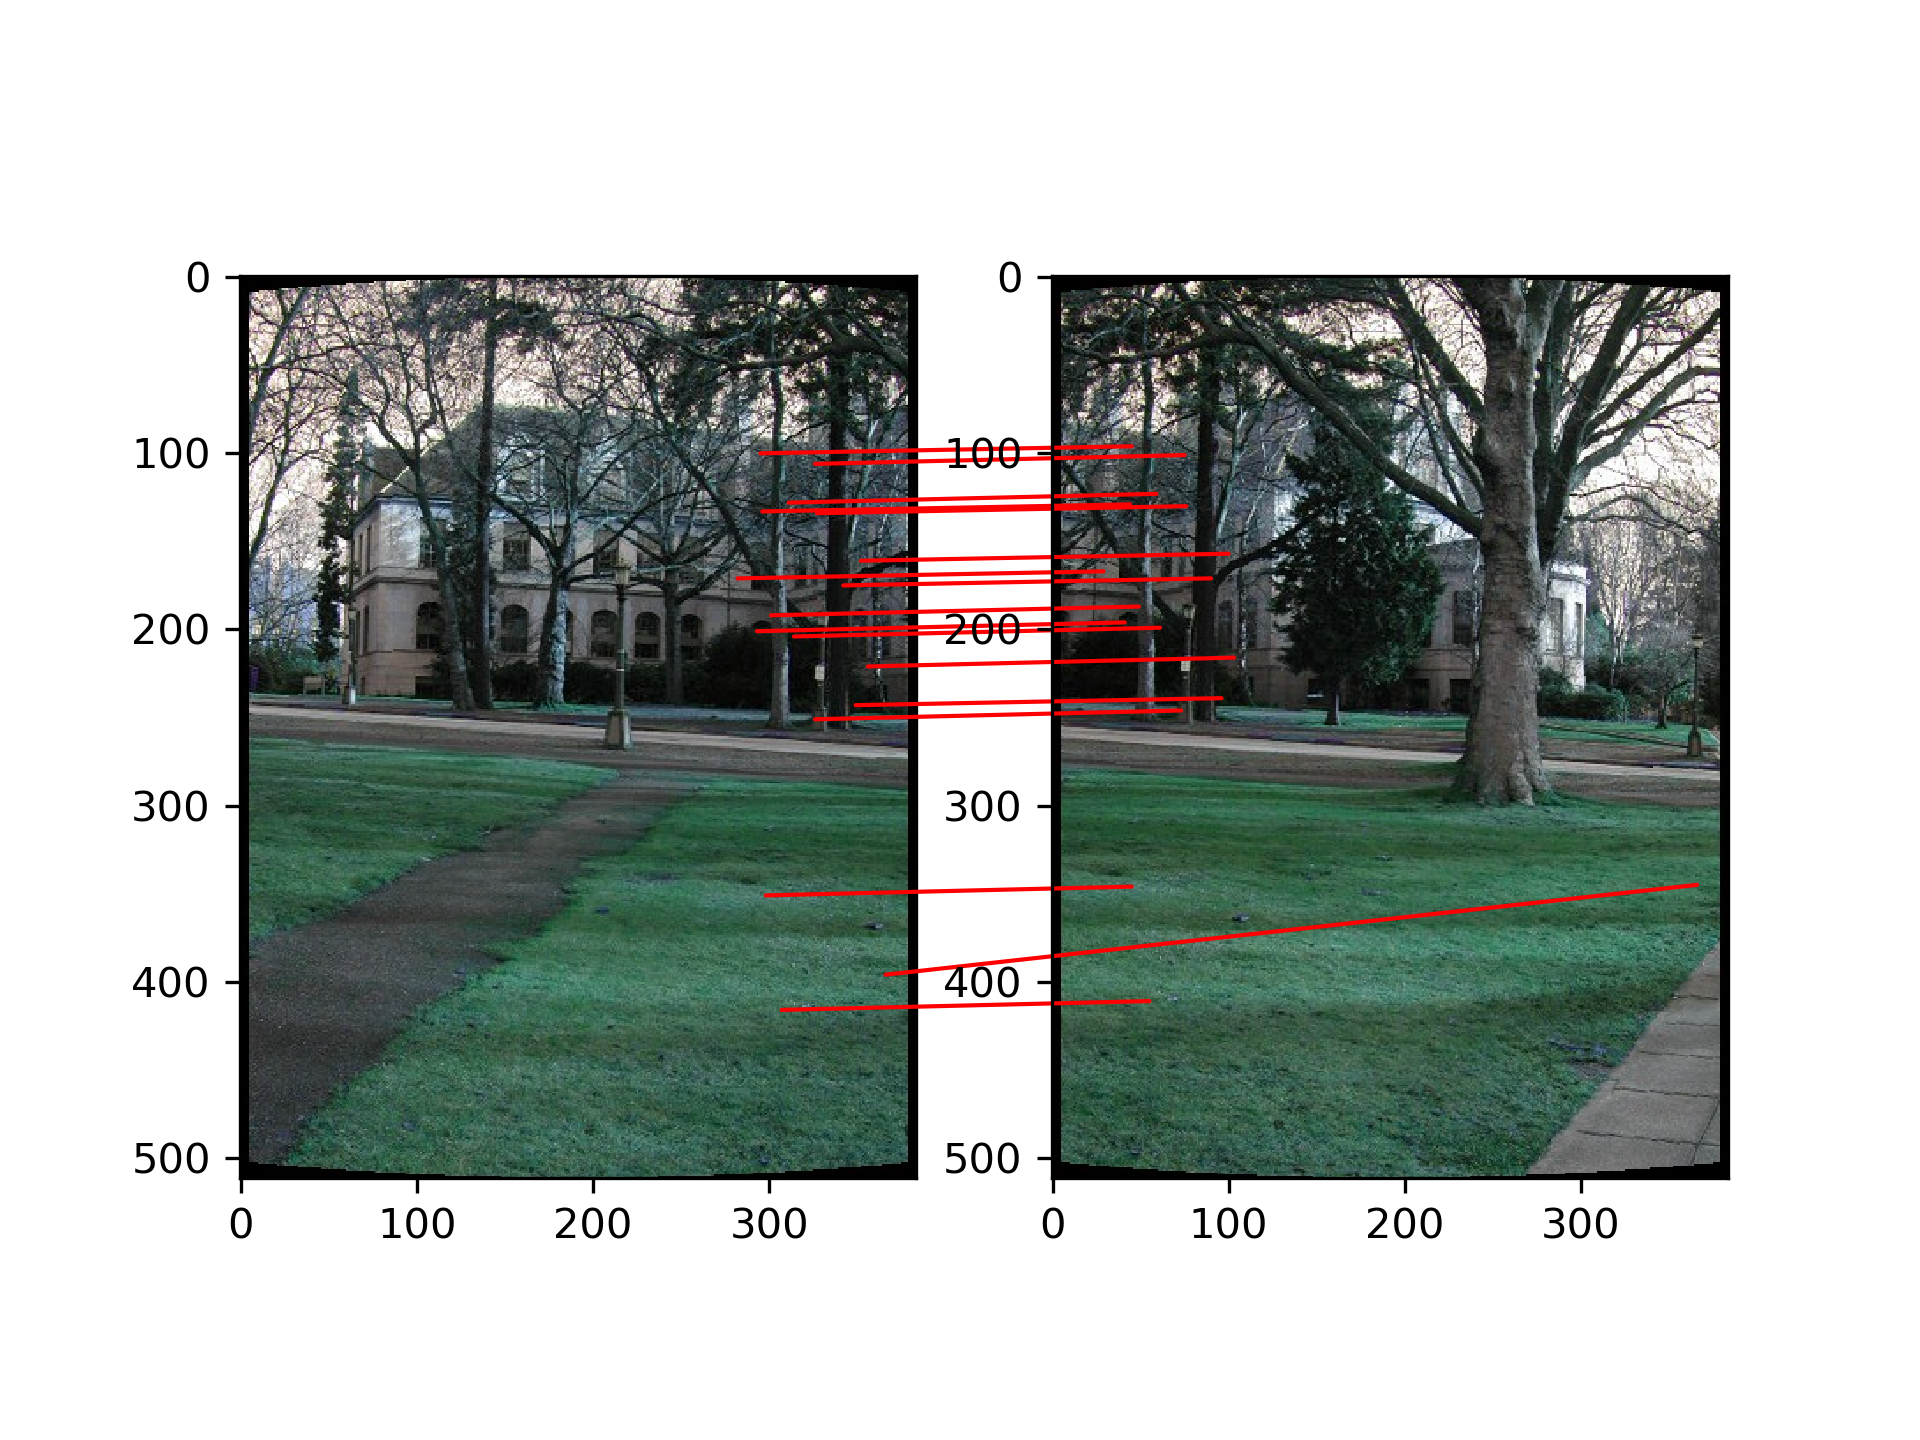
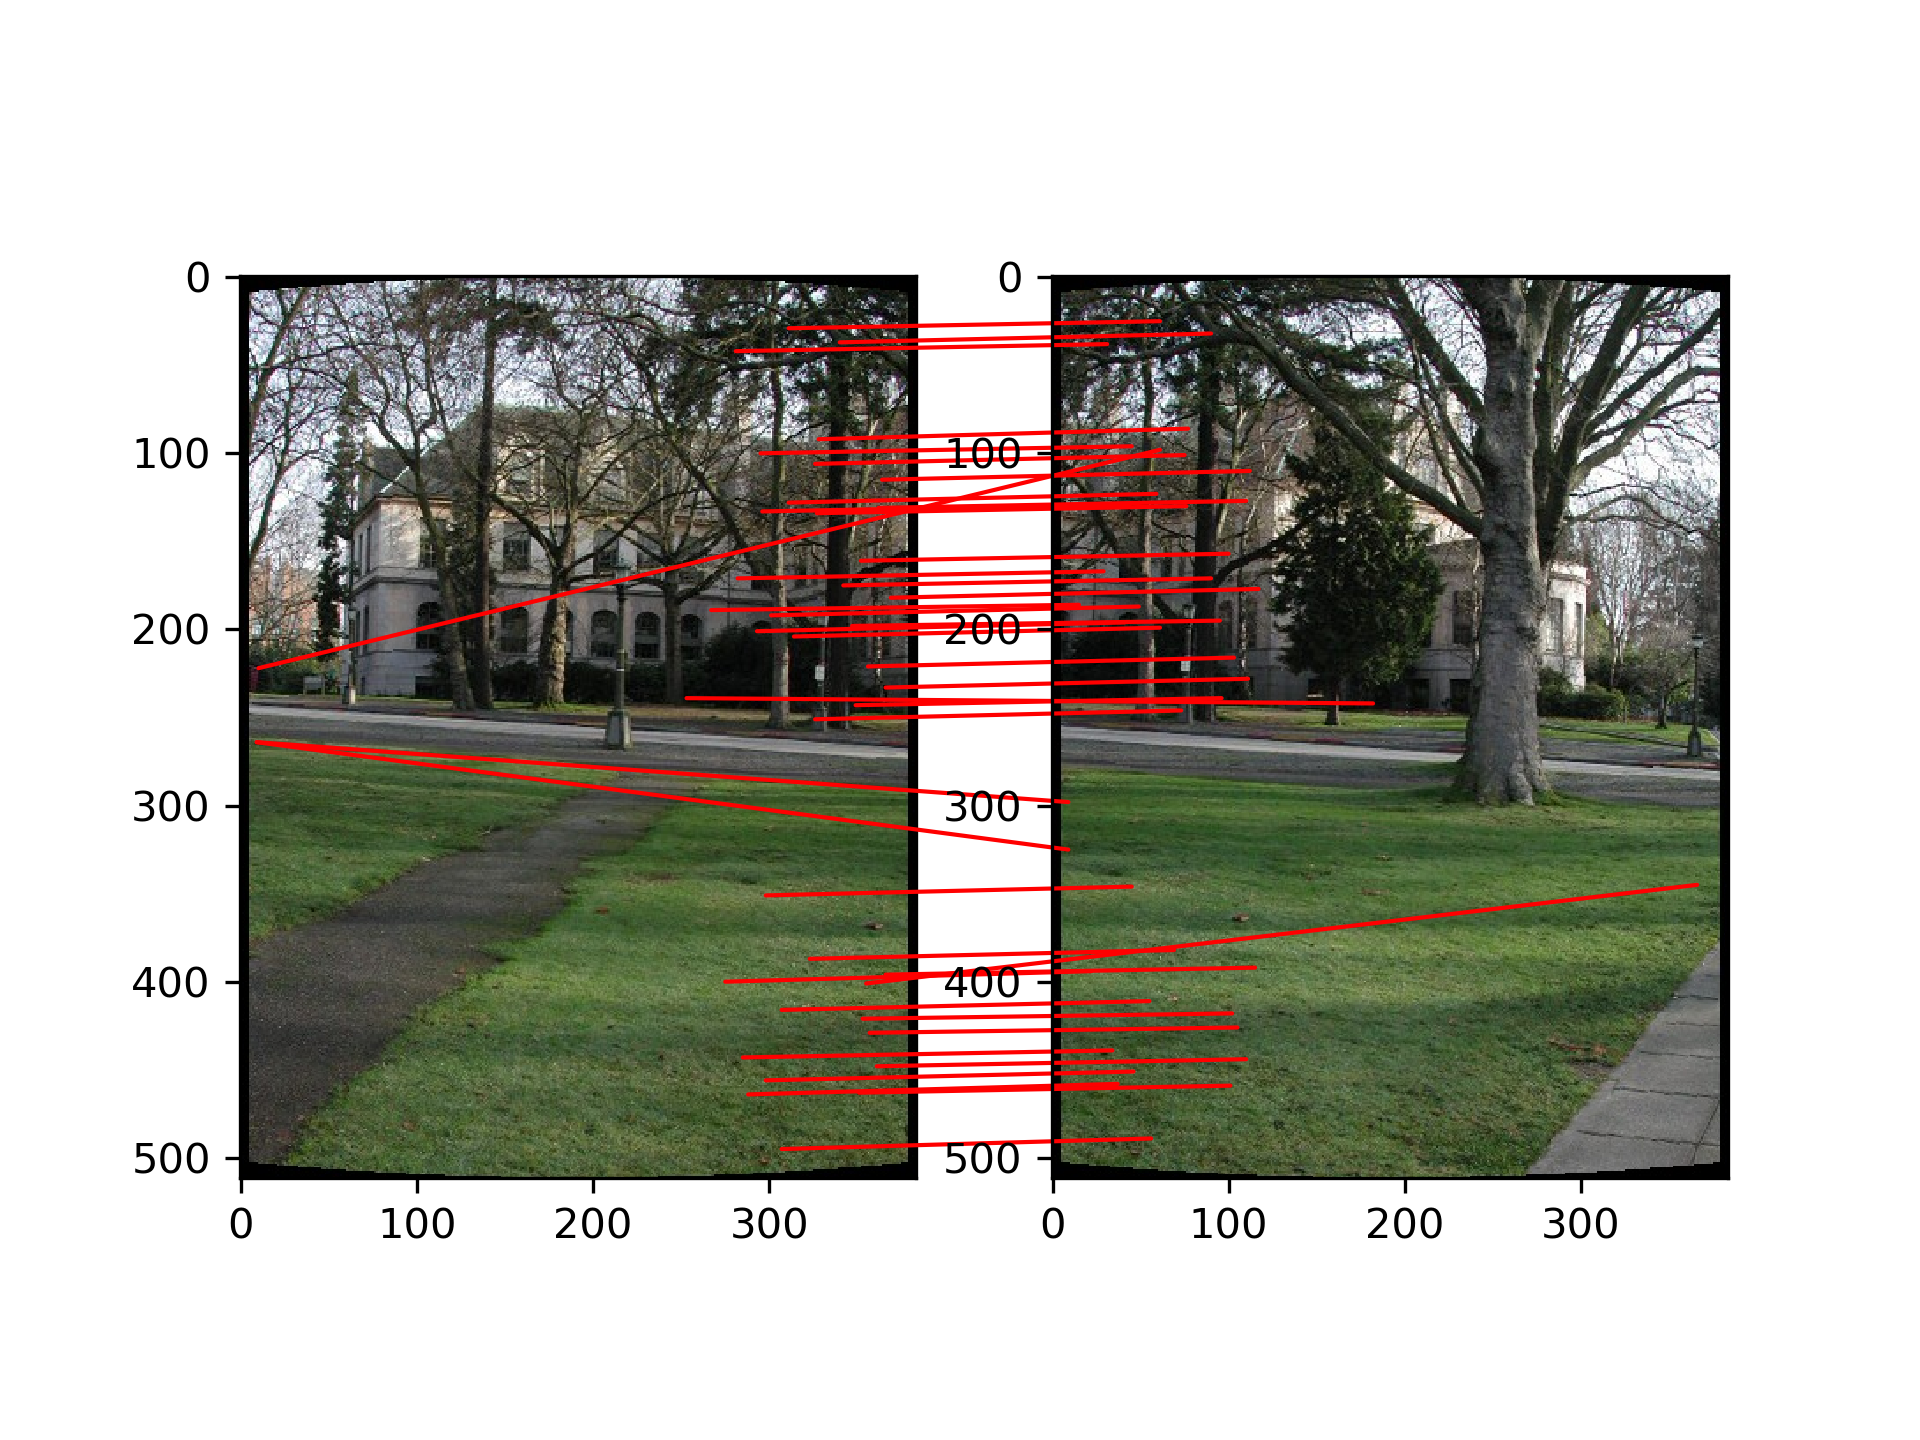
divide by zero bug fixed

diff --git a/ImageStitching/code/match.py b/ImageStitching/code/match.py
@@ -168,10 +168,10 @@ class Matching:
         return errors, inliers
 
 
-repeat_k = 30
+repeat_k = 1000
 sample_amount = 4
-matching_threshold = 0.76
-inlier_threshold = 0.5
+matching_threshold = 0.7
+inlier_threshold = 30
 if __name__ == '__main__':
     # parse command line arguments
     # Usage: python3 matching.py <input> <output> <match> <stitch>
@@ -190,13 +190,13 @@ if __name__ == '__main__':
     image_paths = image_paths_under_dir(input_dir)
     image_list, feature_list, HOG_list = [], [], []
     for index, file_name in enumerate(image_paths):
-        if index < 2:
-            image = cv2.imread(f'{input_dir}/{file_name}')
-            image_list.append(image)
-            harris = HarrisCornerDetector(image, output_path=f'{output_dir}/{file_name}')
-            feature_map, feature_point, descriptor_hist = harris.get_feature_map(guassian_window_size, gaussian_sigma, harris_k, non_maximal_window_size, descriptor_window_size, f'{output_dir}/feature_{file_name}')
-            feature_list.append(feature_point)
-            HOG_list.append(descriptor_hist)
+        # if index < 2:
+        image = cv2.imread(f'{input_dir}/{file_name}')
+        image_list.append(image)
+        harris = HarrisCornerDetector(image, output_path=f'{output_dir}/{file_name}')
+        feature_map, feature_point, descriptor_hist = harris.get_feature_map(guassian_window_size, gaussian_sigma, harris_k, non_maximal_window_size, descriptor_window_size, f'{output_dir}/feature_{file_name}')
+        feature_list.append(feature_point)
+        HOG_list.append(descriptor_hist)
 
     # match feature and match image
     match = Matching(image_list, feature_list, HOG_list, output_dir=f'{match_dir}', stitch_dir=f'{stitch_dir}')

diff --git a/ImageStitching/code/harris.py b/ImageStitching/code/harris.py
@@ -135,7 +135,9 @@ class HarrisCornerDetector:
                         bin_array[pos] += (mag_temp[i,j] / 45) * (45 - (angle_temp[i,j] % 45))
                         pos = (pos+1) % bin_number
                         bin_array[pos] += (mag_temp[i,j] / 45) * (angle_temp[i,j] % 45)
-                bin_array = bin_array / np.linalg.norm(bin_array) # normalize
+                array_norm = np.linalg.norm(bin_array)
+                array_norm = np.where(array_norm != 0, array_norm, 1) # resolve divided by zero
+                bin_array = bin_array / array_norm # normalize
                 bin_vector[temp: temp+bin_number] = bin_array
                 temp += bin_number
 
@@ -155,13 +157,13 @@ class HarrisCornerDetector:
 
 gaussian_sigma = 3
 harris_k = 0.05
-# guassian_window_size = 31
-# non_maximal_window_size = 89
-# descriptor_window_size = 121
+guassian_window_size = 31
+non_maximal_window_size = 89
+descriptor_window_size = 17
 
-guassian_window_size = 5
-non_maximal_window_size = 15
-descriptor_window_size = 17 # mod 4 == 1
+# guassian_window_size = 5
+# non_maximal_window_size = 15
+# descriptor_window_size = 17 # mod 4 == 1
 if __name__ == '__main__':
 
     # parse command line arguments
